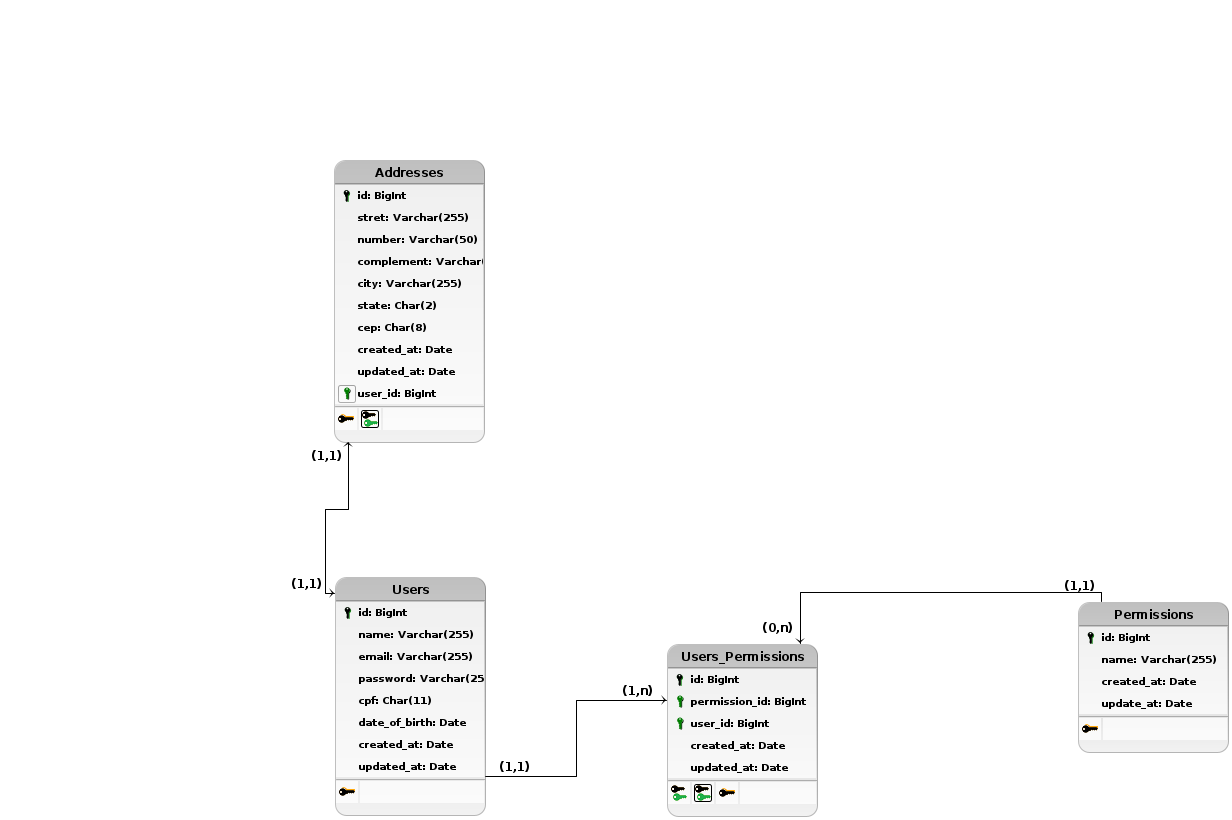
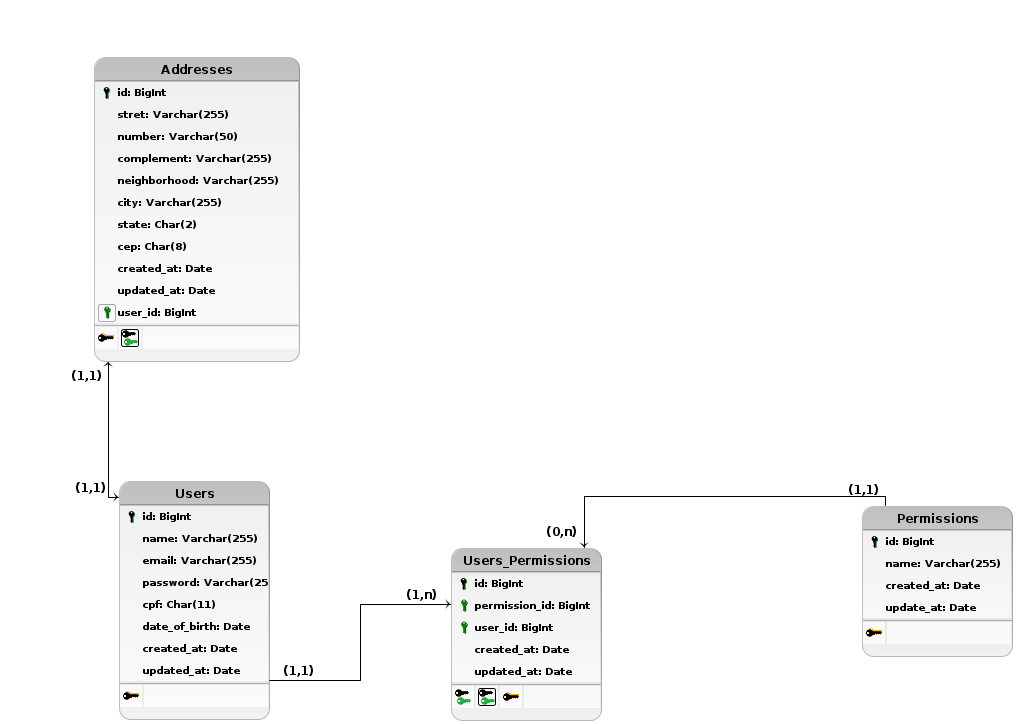
feat: :art: Create Page Register Client Form

diff --git a/resources/views/client/create.blade.php b/resources/views/client/create.blade.php
@@ -1,0 +1,119 @@
+<x-app-layout>
+    <div class="py-12">
+        <div class="max-w-7xl mx-auto sm:px-6 lg:px-8 flex flex-col gap-3">
+            <div class="bg-white overflow-hidden shadow-sm sm:rounded-lg">
+                <div class="p-6 text-gray-900">
+                    <h1 class="text-lg">Cadastar Cliente</h1>
+                </div>
+            </div>
+
+            <div class="bg-white overflow-hidden shadow-sm sm:rounded-lg flex flex-col gap-3">
+                <div class="flex items-center justify-center p-12">
+                    <div class="mx-auto w-full max-w-[550px] bg-white">
+                        <form>
+                            <div class="mb-3">
+                                <label for="name" class="mb-3 block text-base font-medium text-[#07074D]">
+                                    Nome
+                                </label>
+                                <input type="text" name="name" id="name"
+                                    placeholder="Nome Completo da Pessoa"
+                                    class="w-full rounded-md border border-[#e0e0e0] bg-white py-3 px-6 text-base font-medium text-[#6B7280] outline-none focus:border-[#6A64F1] focus:shadow-md" />
+                            </div>
+                            <div class="mb-3">
+                                <label for="email" class="mb-3 block text-base font-medium text-[#07074D]">
+                                    Email
+                                </label>
+                                <input type="email" name="email" id="email" placeholder="Ex: email@gmail.com"
+                                    class="w-full rounded-md border border-[#e0e0e0] bg-white py-3 px-6 text-base font-medium text-[#6B7280] outline-none focus:border-[#6A64F1] focus:shadow-md" />
+                            </div>
+                            <div class="mb-3">
+                                <label for="password" class="mb-3 block text-base font-medium text-[#07074D]">
+                                    Senha
+                                </label>
+                                <input type="password" name="password" id="password" placeholder="Ex: euQueroV4ga#200"
+                                    class="w-full rounded-md border border-[#e0e0e0] bg-white py-3 px-6 text-base font-medium text-[#6B7280] outline-none focus:border-[#6A64F1] focus:shadow-md" />
+                            </div>
+                            <div class="-mx-3 flex flex-wrap">
+                                <div class="w-full px-3 sm:w-1/2">
+                                    <div class="mb-3">
+                                        <label for="date_of_birth" class="mb-3 block text-base font-medium text-[#07074D]">
+                                            Data de Aniversario
+                                        </label>
+                                        <input type="date" name="date_of_birth" id="date_of_birth"
+                                            class="w-full rounded-md border border-[#e0e0e0] bg-white py-3 px-6 text-base font-medium text-[#6B7280] outline-none focus:border-[#6A64F1] focus:shadow-md" />
+                                    </div>
+                                </div>
+                                <div class="w-full px-3 sm:w-1/2">
+                                    <div class="mb-3">
+                                        <label for="cpf" class="mb-3 block text-base font-medium text-[#07074D]">
+                                            CPF
+                                        </label>
+                                        <input type="text" name="cpf" id="cpf" placeholder="123.456.789-10"
+                                            class="w-full rounded-md border border-[#e0e0e0] bg-white py-3 px-6 text-base font-medium text-[#6B7280] outline-none focus:border-[#6A64F1] focus:shadow-md" />
+                                    </div>
+                                </div>
+                            </div>
+
+                            <div class="mb-3 pt-3">
+                                <label class="mb-3 block text-base font-semibold text-[#07074D] sm:text-xl">
+                                    Endereço
+                                </label>
+                                <div class="-mx-3 flex flex-wrap">
+                                    <div class="w-full px-3 sm:w-1/2">
+                                        <div class="mb-3">
+                                            <input type="text" name="street" id="street" placeholder="Rua"
+                                                class="w-full rounded-md border border-[#e0e0e0] bg-white py-3 px-6 text-base font-medium text-[#6B7280] outline-none focus:border-[#6A64F1] focus:shadow-md" />
+                                        </div>
+                                    </div>
+                                    <div class="w-full px-3 sm:w-1/2">
+                                        <div class="mb-3">
+                                            <input type="text" name="number" id="number" placeholder="Número"
+                                                class="w-full rounded-md border border-[#e0e0e0] bg-white py-3 px-6 text-base font-medium text-[#6B7280] outline-none focus:border-[#6A64F1] focus:shadow-md" />
+                                        </div>
+                                    </div>
+                                    <div class="w-full px-3 sm:w-1/1">
+                                        <div class="mb-3">
+                                            <input type="text" name="complement" id="complement" placeholder="Complemento"
+                                                class="w-full rounded-md border border-[#e0e0e0] bg-white py-3 px-6 text-base font-medium text-[#6B7280] outline-none focus:border-[#6A64F1] focus:shadow-md" />
+                                        </div>
+                                    </div>
+                                    <div class="w-full px-3 sm:w-1/2">
+                                        <div class="mb-3">
+                                            <input type="text" name="neighborhood" id="neighborhood" placeholder="Bairro"
+                                                class="w-full rounded-md border border-[#e0e0e0] bg-white py-3 px-6 text-base font-medium text-[#6B7280] outline-none focus:border-[#6A64F1] focus:shadow-md" />
+                                        </div>
+                                    </div>
+                                    <div class="w-full px-3 sm:w-1/2">
+                                        <div class="mb-3">
+                                            <input type="text" name="cep" id="cep" placeholder="CEP"
+                                                class="w-full rounded-md border border-[#e0e0e0] bg-white py-3 px-6 text-base font-medium text-[#6B7280] outline-none focus:border-[#6A64F1] focus:shadow-md" />
+                                        </div>
+                                    </div>
+                                    <div class="w-full px-3 sm:w-1/2">
+                                        <div class="mb-3">
+                                            <input type="text" name="city" id="city" placeholder="Cidade"
+                                                class="w-full rounded-md border border-[#e0e0e0] bg-white py-3 px-6 text-base font-medium text-[#6B7280] outline-none focus:border-[#6A64F1] focus:shadow-md" />
+                                        </div>
+                                    </div>
+                                    <div class="w-full px-3 sm:w-1/2">
+                                        <div class="mb-3">
+                                            <input type="text" name="state" id="state" placeholder="Sigla do Estado"
+                                                class="w-full rounded-md border border-[#e0e0e0] bg-white py-3 px-6 text-base font-medium text-[#6B7280] outline-none focus:border-[#6A64F1] focus:shadow-md" />
+                                        </div>
+                                    </div>
+                                </div>
+                            </div>
+
+                            <div>
+                                <button
+                                    class="hover:shadow-form w-full rounded-md bg-[#6A64F1] py-3 px-8 text-center text-base font-semibold text-white outline-none">
+                                    Book Appointment
+                                </button>
+                            </div>
+                        </form>
+                    </div>
+                </div>
+            </div>
+        </div>
+    </div>
+</x-app-layout>

diff --git a/resources/views/client/index.blade.php b/resources/views/client/index.blade.php
@@ -3,7 +3,7 @@
         <div class="max-w-7xl mx-auto sm:px-6 lg:px-8 flex flex-col gap-3">
             <div class="bg-white overflow-hidden shadow-sm sm:rounded-lg">
                 <div class="p-6 text-gray-900">
-                    <h1 class="text-lg">Lista de Clientes</h1>
+                    <h1 class="text-lg">Lista de Clientes - Exibindo {{ $clients->count() }}</h1>
                 </div>
             </div>
 
@@ -37,28 +37,36 @@
                                 </th>
                                 <th class="whitespace-nowrap px-4 py-2 font-medium text-gray-900">Data de Cadastro</th>
                                 <th class="px-4 py-2"></th>
-                                <th class="px-4 py-2"></th>
+                                <th class="px-4 py-2 flex justify-center">
+                                    <a href="{{ route('client.create') }}"
+                                        class="inline-block rounded bg-green-600 px-3 py-2 text-xs font-medium text-white hover:bg-green-700">
+                                        +
+                                    </a>
+                                </th>
                             </tr>
                         </thead>
 
                         <tbody class="divide-y divide-gray-200">
                             @foreach ($clients as $client)
                                 <tr>
-                                    <td class="whitespace-nowrap px-4 py-2 font-medium text-gray-900">{{ $client->id }}</td>
+                                    <td class="whitespace-nowrap px-4 py-2 font-medium text-gray-900">
+                                        {{ $client->id }}</td>
                                     <td class="whitespace-nowrap px-4 py-2 text-gray-700">{{ $client->name }}</td>
-                                    <td class="whitespace-nowrap px-4 py-2 text-gray-700">{{ $client->formated_date_of_birth }}</td>
-                                    <td class="whitespace-nowrap px-4 py-2 text-gray-700">{{ $client->formated_created_at }}</td>
+                                    <td class="whitespace-nowrap px-4 py-2 text-gray-700">
+                                        {{ $client->formated_date_of_birth }}</td>
+                                    <td class="whitespace-nowrap px-4 py-2 text-gray-700">
+                                        {{ $client->formated_created_at }}</td>
                                     <td class="whitespace-nowrap px-4 py-2">
                                         <a href="#"
                                             class="inline-block rounded bg-blue-600 px-4 py-2 text-xs font-medium text-white hover:bg-blue-700">
                                             Editar
                                         </a>
                                     </td>
-                                    <td class="whitespace-nowrap px-4 py-2">
+                                    <td class="whitespace-nowrap px-4 py-2 flex justify-center">
                                         <a href="#"
                                             class="inline-block rounded bg-red-600 px-4 py-2 text-xs font-medium text-white hover:bg-red-700">
                                             Excluir
-                                        </a>    
+                                        </a>
                                     </td>
                                 </tr>
                             @endforeach

diff --git a/database/seeders/UserSeeder.php b/database/seeders/UserSeeder.php
@@ -32,5 +32,25 @@ class UserSeeder extends Seeder
             'avatar' => null,
         ]);
         $client->assignPermission('client');
+
+        $client = User::create([
+            'name' => 'Rosa Angelica',
+            'email' => 'rosaangelica@gmail.com',
+            'password' => bcrypt('123456'),
+            'cpf' => '21120335302',
+            'date_of_birth' => '1971-11-24',
+            'avatar' => null,
+        ]);
+        $client->assignPermission('client');
+
+        $client = User::create([
+            'name' => 'Pedro de Sousa Borges',
+            'email' => 'pedroborges@gmail.com',
+            'password' => bcrypt('123456'),
+            'cpf' => '70442023308',
+            'date_of_birth' => '1976-01-14',
+            'avatar' => null,
+        ]);
+        $client->assignPermission('client');
     }
 }

diff --git a/database/migrations/2024_06_15_161311_create_addresses_table.php b/database/migrations/2024_06_15_161311_create_addresses_table.php
@@ -17,6 +17,7 @@ return new class extends Migration
             $table->string('street');
             $table->string('number');
             $table->string('complement')->nullable();
+            $table->string('neighborhood');
             $table->string('city');
             $table->string('state', 2);
             $table->string('cep', 8);

diff --git a/routes/web.php b/routes/web.php
@@ -25,6 +25,7 @@ Route::get('/dashboard', function () {
 
 Route::prefix('/clients')->middleware(['auth', 'can:manager'])->group(function () {
     Route::get('/', [ClientController::class, 'index'])->name('client.index');
+    Route::get('/create', [ClientController::class, 'create'])->name('client.create');
 });
 
 

diff --git a/app/Http/Controllers/ClientController.php b/app/Http/Controllers/ClientController.php
@@ -28,6 +28,11 @@ class ClientController extends Controller
         return view('client.index', compact('clients'));
     }
 
+    public function create()
+    {
+        return view('client.create');
+    }
+
     // Funcao de Formatação
 
     private function formatedDate($date)

diff --git a/app/Models/Address.php b/app/Models/Address.php
@@ -14,6 +14,7 @@ class Address extends Model
         'street',
         'number',
         'complement',
+        'neighborhood',
         'city',
         'state',
         'cep',
